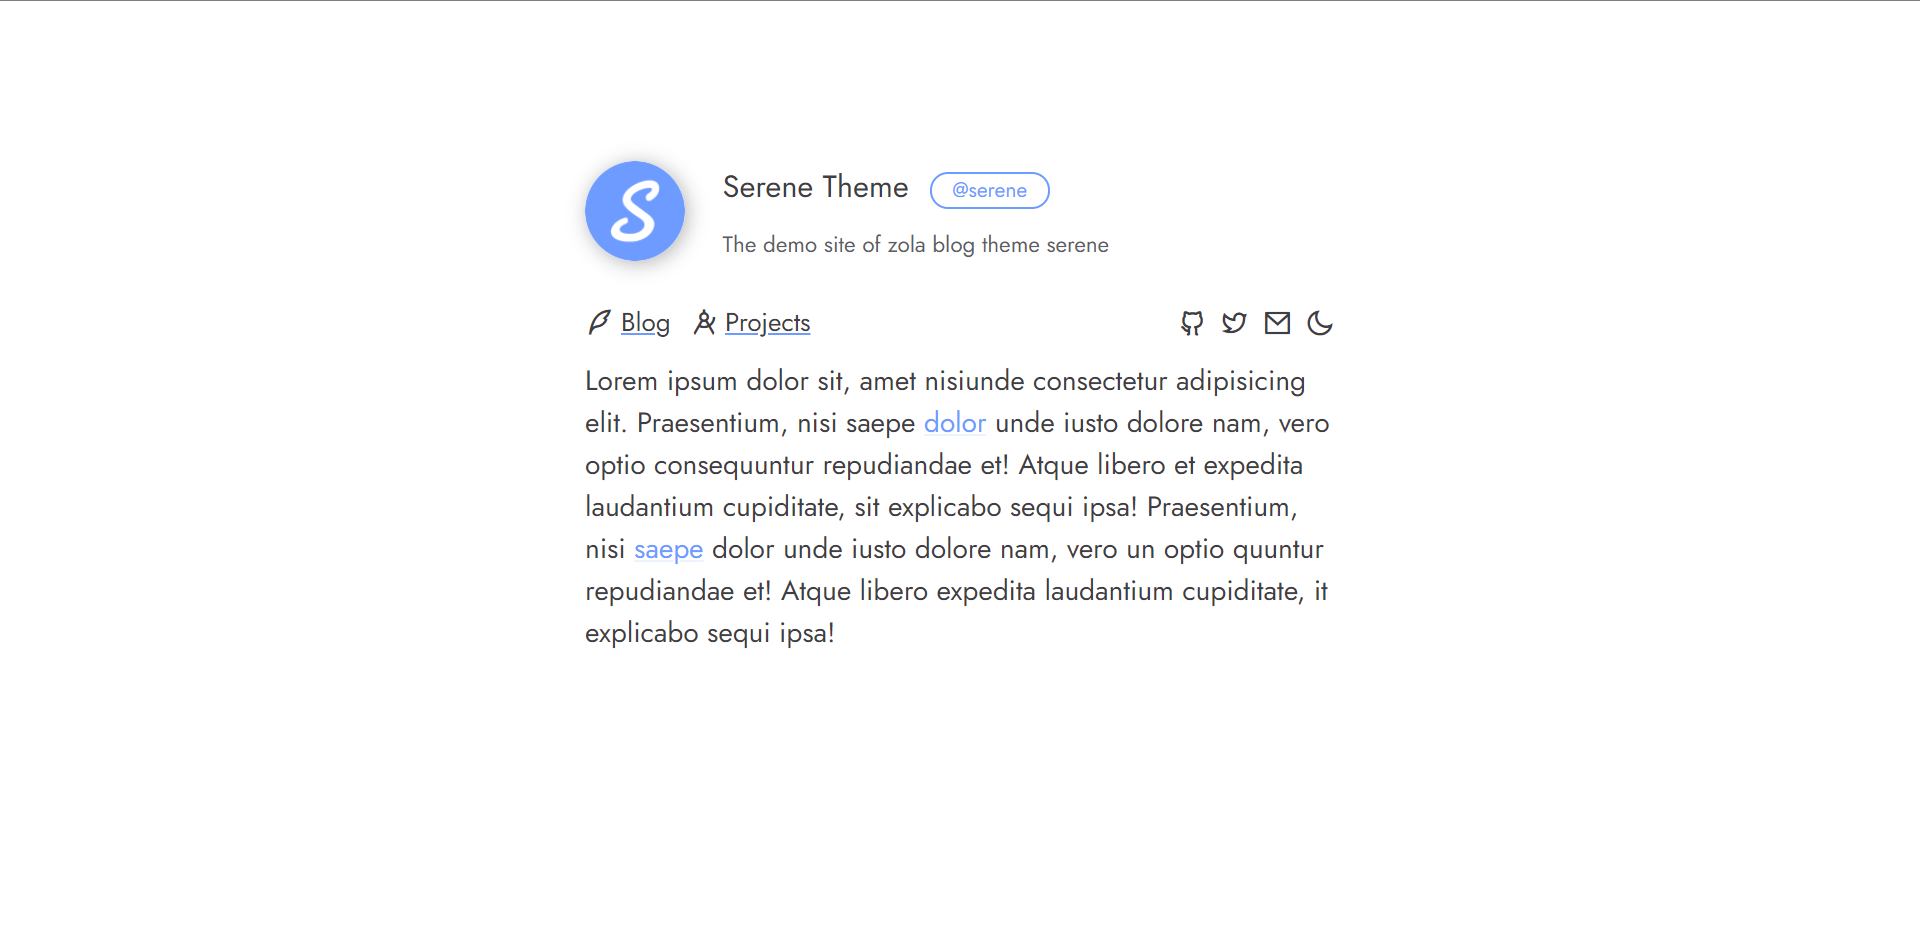
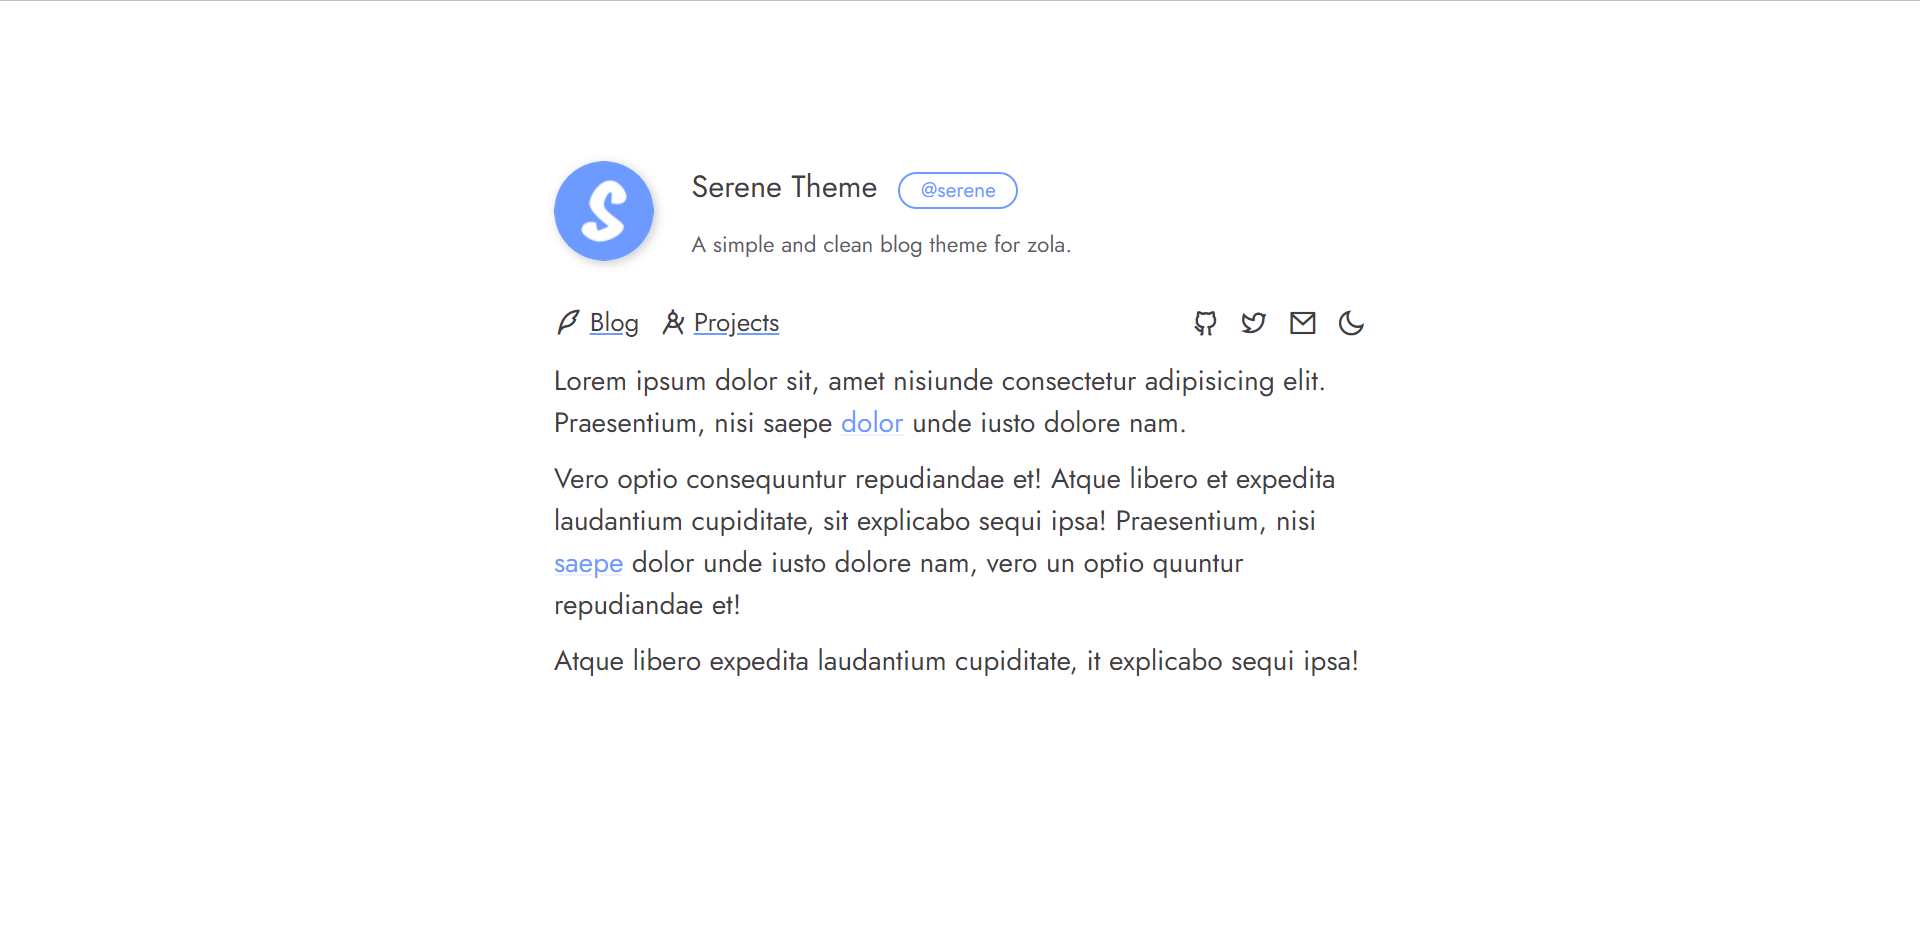
update readme

diff --git a/README.md b/README.md
@@ -2,7 +2,7 @@ English | [简体中文](README-cn.md)
 
 # Serene - A blog theme for zola
 
-Serene is a simple yet feature-rich blog theme for Static-Site-Generator [Zola](https://www.getzola.org/).
+Serene is a simple and clean blog theme for Static-Site-Generator [Zola](https://www.getzola.org/).
 
 [Demo](https://serene-demo-site.vercel.app) | [Docs](https://github.com/isunjn/serene/wiki)
 
@@ -23,29 +23,29 @@ Serene is a simple yet feature-rich blog theme for Static-Site-Generator [Zola](
 ## Features
 
 - Personal website style
-- Simple and clean, focus on contents
+- Simple and clean, focus on content
 - Dark mode
 - Blog-related features
     - Sticky table-of-contents
     - Image zooming
     - Reading progress bar
-    - Specially styled quotes (Info, Important, Warning, etc.)
+    - Admonitions (Info, Important, Warning, etc.)
     - Out-of-date warning
     - Creative-Commons statement
     - Comments
-    - Web analysis
-- Projects page (optional)
+- Web analytics
+- Projects page
 - Easily customize
 
 ## How to use
 
-To get started with serene, check the [Docs](https://github.com/isunjn/serene/wiki).
+See [docs](https://github.com/isunjn/serene/wiki).
 
 ## Contributing
 
 If you found a bug or want a specific feature, just open an issue.
 
-Be noticed that to keep serene simple, some niche needs may not be considered. You can implement it in your own site.
+Be noticed that to keep serene simple, some needs may not be considered. You can implement it in your own site.
 
 ## Credits
 
@@ -54,8 +54,8 @@ Be noticed that to keep serene simple, some niche needs may not be considered. Y
 - This theme draws some inspiration from these awesome sites:
     - <https://www.zhangxiaochun.com/>
     - <https://lightquantum.me/>
-    - https://theme-cards.ichr.me/
-    - https://brianlovin.com/
+    - <https://theme-cards.ichr.me/>
+    - <https://brianlovin.com/>
 
 ## License
 
